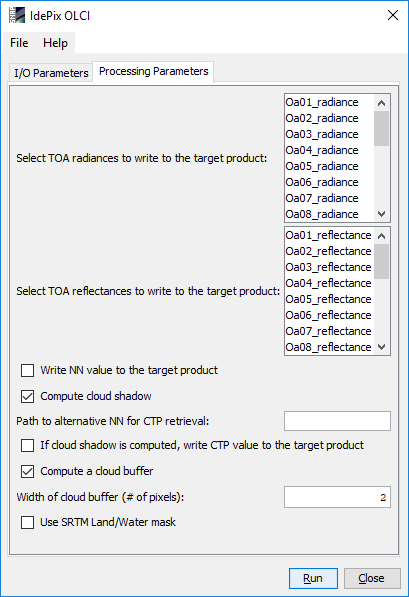
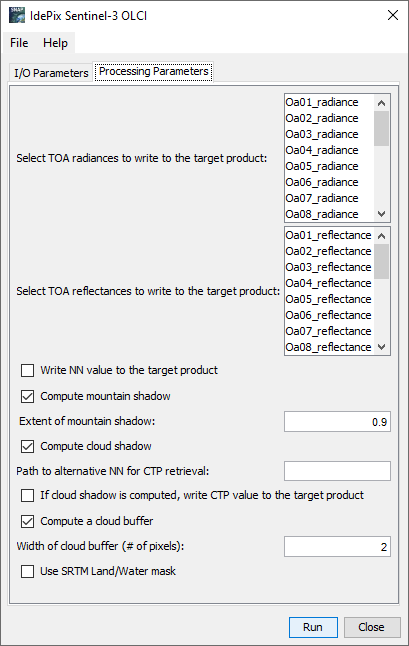
added parameter and help
(cherry picked from commit f2ae6d964960006cc0162cb5ada52e1f9b47e1d7)

Changed region(s): [[0.0, 0.0, 1.0, 1.0], [0.0, 0.0, 0.9682, 0.603], [0.7042, 0.8141, 0.9682, 0.8744]]

diff --git a/idepix-olci/src/main/javahelp/org/esa/snap/idepix/olci/docs/olci/OlciProcessorDescription.html b/idepix-olci/src/main/javahelp/org/esa/snap/idepix/olci/docs/olci/OlciProcessorDescription.html
@@ -108,6 +108,16 @@ For detailed product descriptions and file naming conventions see the Sentinel-3
 </p>
 
 <p class="i1">
+    <b>Compute mountain shadow: </b><br>
+    If set, a mountain shadow is computed and added to the pixel classification. The default value is 'true'.
+</p>
+<p class="i1">
+    <b>Extent of mountain shadow: </b><br>
+    A value between zero and 1 defining how extensive the cloud shadow is flagged. A higher value means more shadow is flagged.
+    The best value is dependent on the current scene. As default <b>0.9</b> is set.
+</p>
+
+<p class="i1">
     <b>Compute cloud shadow: </b><br>
     If set, a cloud shadow is computed and added to the pixel classification. The default value is 'true'.
 </p>

diff --git a/idepix-olci/src/main/java/org/esa/snap/idepix/olci/IdepixOlciPostProcessOp.java b/idepix-olci/src/main/java/org/esa/snap/idepix/olci/IdepixOlciPostProcessOp.java
@@ -17,6 +17,8 @@ import org.esa.snap.idepix.core.util.IdepixIO;
 import org.esa.snap.idepix.core.util.IdepixUtils;
 
 import java.awt.*;
+import java.util.HashMap;
+import java.util.Map;
 
 //import org.esa.s3tbx.idepix.core.IdepixConstants;
 //import org.esa.s3tbx.idepix.core.operators.CloudBuffer;
@@ -49,6 +51,10 @@ public class IdepixOlciPostProcessOp extends Operator {
 
     @Parameter(defaultValue = "true", label = " Compute mountain shadow")
     private boolean computeMountainShadow;
+
+    @Parameter(label = " Extent of mountain shadow", defaultValue = "0.9", interval = "[0,1]",
+            description = "Extent of mountain shadow detection")
+    private double mntShadowExtent;
 
     @Parameter(defaultValue = "false",
             label = " Compute cloud shadow",
@@ -108,17 +114,15 @@ public class IdepixOlciPostProcessOp extends Operator {
         }
 
         rectCalculator = new RectangleExtender(new Rectangle(l1bProduct.getSceneRasterWidth(),
-                l1bProduct.getSceneRasterHeight()),
-                cloudBufferWidth, cloudBufferWidth
-        );
+                l1bProduct.getSceneRasterHeight()), cloudBufferWidth, cloudBufferWidth);
 
         if (computeMountainShadow) {
-            ProductUtils.copyBand(latBand.getName(), l1bProduct, olciCloudProduct, true);
-            ProductUtils.copyBand(lonBand.getName(), l1bProduct, olciCloudProduct, true);
-            ProductUtils.copyBand(altBand.getName(), l1bProduct, olciCloudProduct, true);
+            ensureBandsAreCopied(l1bProduct, olciCloudProduct, latBand.getName(), lonBand.getName(), altBand.getName());
+            Map<String, Object> mntShadowParams = new HashMap<>();
+            mntShadowParams.put("mntShadowStrength", mntShadowExtent);
             final Product mountainShadowProduct = GPF.createProduct(
                     OperatorSpi.getOperatorAlias(IdepixOlciMountainShadowOp.class),
-                    GPF.NO_PARAMS, olciCloudProduct);
+                    mntShadowParams, olciCloudProduct);
             mountainShadowFlagBand = mountainShadowProduct.getBand(
                     IdepixOlciMountainShadowOp.MOUNTAIN_SHADOW_FLAG_BAND_NAME);
         }
@@ -143,6 +147,14 @@ public class IdepixOlciPostProcessOp extends Operator {
 
         ProductUtils.copyBand(IdepixConstants.CLASSIF_BAND_NAME, olciCloudProduct, postProcessedCloudProduct, false);
         setTargetProduct(postProcessedCloudProduct);
+    }
+
+    private void ensureBandsAreCopied(Product source, Product target, String... bandNames) {
+        for (String bandName : bandNames) {
+            if (!target.containsBand(bandName)) {
+                ProductUtils.copyBand(bandName, source, target, true);
+            }
+        }
     }
 
     @Override

diff --git a/idepix-olci/src/main/java/org/esa/snap/idepix/olci/IdepixOlciMountainShadowOp.java b/idepix-olci/src/main/java/org/esa/snap/idepix/olci/IdepixOlciMountainShadowOp.java
@@ -8,6 +8,7 @@ import org.esa.snap.core.gpf.GPF;
 import org.esa.snap.core.gpf.OperatorException;
 import org.esa.snap.core.gpf.OperatorSpi;
 import org.esa.snap.core.gpf.annotations.OperatorMetadata;
+import org.esa.snap.core.gpf.annotations.Parameter;
 import org.esa.snap.core.gpf.annotations.SourceProduct;
 import org.esa.snap.core.gpf.pointop.*;
 import org.esa.snap.core.util.math.MathUtils;
@@ -32,6 +33,10 @@ public class IdepixOlciMountainShadowOp extends PixelOperator {
     @SourceProduct
     private Product sourceProduct;
 
+    @Parameter(label = " Extent of mountain shadow", defaultValue = "0.9", interval = "[0,1]",
+            description = "Extent of mountain shadow detection")
+    private double mntShadowExtent;
+
     private final static int SZA_INDEX = 0;
     private final static int SAA_INDEX = 1;
     private final static int OZA_INDEX = 2;
@@ -43,8 +48,6 @@ public class IdepixOlciMountainShadowOp extends PixelOperator {
     private final static int ELEVATION_INDEX = 8;
 
     private final static int MOUNTAIN_SHADOW_FLAG_BAND_INDEX = 0;
-
-    private final static double SHADOW_THRESHOLD = -0.1;
 
     public final static String MOUNTAIN_SHADOW_FLAG_BAND_NAME = "mountainShadowFlag";
 
@@ -105,14 +108,14 @@ public class IdepixOlciMountainShadowOp extends PixelOperator {
             final double saaApparent = IdepixOlciUtils.computeApparentSaa(sza, saa, oza, oaa, geoPos.getLat());
 
             targetSamples[MOUNTAIN_SHADOW_FLAG_BAND_INDEX].set(isMountainShadow(sza, (float) saaApparent,
-                    slope, aspect, orientation));
+                    slope, aspect, orientation, mntShadowExtent));
         }
     }
 
     /* package local for testing */
-    static boolean isMountainShadow(float sza, float saa, float slope, float aspect, float orientation) {
+    static boolean isMountainShadow(float sza, float saa, float slope, float aspect, float orientation, double mntShadowExtent) {
         final double cosBeta = computeCosBeta(sza, saa, slope, aspect, orientation);
-        return cosBeta < SHADOW_THRESHOLD;
+        return cosBeta < (-1 * (1 - mntShadowExtent));
     }
 
     /* package local for testing */

diff --git a/idepix-olci/src/test/java/org/esa/snap/idepix/olci/IdepixOlciMountainShadowOpTest.java b/idepix-olci/src/test/java/org/esa/snap/idepix/olci/IdepixOlciMountainShadowOpTest.java
@@ -1,6 +1,5 @@
 package org.esa.snap.idepix.olci;
 
-import org.esa.snap.idepix.olci.IdepixOlciMountainShadowOp;
 import org.junit.Test;
 
 import static org.junit.Assert.*;
@@ -24,27 +23,27 @@ public class IdepixOlciMountainShadowOpTest {
 
         // sun in zenith: certainly no shadow...
         float sza = 0.0f;
-        assertFalse(IdepixOlciMountainShadowOp.isMountainShadow(sza, saa, slope, aspect, orientation));
+        assertFalse(IdepixOlciMountainShadowOp.isMountainShadow(sza, saa, slope, aspect, orientation, 0.9));
 
         // low sun angle: no shadow...
         sza = 30.0f;
-        assertFalse(IdepixOlciMountainShadowOp.isMountainShadow(sza, saa, slope, aspect, orientation));
+        assertFalse(IdepixOlciMountainShadowOp.isMountainShadow(sza, saa, slope, aspect, orientation, 0.9));
 
         // the change at sza = 45deg...
         sza = 44.9f;
-        assertFalse(IdepixOlciMountainShadowOp.isMountainShadow(sza, saa, slope, aspect, orientation));
+        assertFalse(IdepixOlciMountainShadowOp.isMountainShadow(sza, saa, slope, aspect, orientation, 0.9));
         sza = 45.0f;
-        assertTrue(IdepixOlciMountainShadowOp.isMountainShadow(sza, saa, slope, aspect, orientation));
+        assertFalse(IdepixOlciMountainShadowOp.isMountainShadow(sza, saa, slope, aspect, orientation, 0.9));
         // get out of the shadow again with slight change in saa...
         saa = 179.0f;
-        assertFalse(IdepixOlciMountainShadowOp.isMountainShadow(sza, saa, slope, aspect, orientation));
+        assertFalse(IdepixOlciMountainShadowOp.isMountainShadow(sza, saa, slope, aspect, orientation, 0.9));
         saa = 181.0f;
-        assertFalse(IdepixOlciMountainShadowOp.isMountainShadow(sza, saa, slope, aspect, orientation));
+        assertFalse(IdepixOlciMountainShadowOp.isMountainShadow(sza, saa, slope, aspect, orientation, 0.9));
 
         // low sun angle: shadow...
         saa = 180.0f;
         sza = 60.0f;
-        assertTrue(IdepixOlciMountainShadowOp.isMountainShadow(sza, saa, slope, aspect, orientation));
+        assertTrue(IdepixOlciMountainShadowOp.isMountainShadow(sza, saa, slope, aspect, orientation, 0.9));
 
     }
 

diff --git a/idepix-olci/src/main/java/org/esa/snap/idepix/olci/IdepixOlciOp.java b/idepix-olci/src/main/java/org/esa/snap/idepix/olci/IdepixOlciOp.java
@@ -82,6 +82,10 @@ public class IdepixOlciOp extends BasisOp {
     @Parameter(defaultValue = "true", label = " Compute mountain shadow")
     private boolean computeMountainShadow;
 
+    @Parameter(label = " Extent of mountain shadow", defaultValue = "0.9", interval = "[0,1]",
+            description = "Extent of mountain shadow detection")
+    private double mntShadowExtent;
+
     @Parameter(defaultValue = "true",
             label = " Compute cloud shadow",
             description = " Compute cloud shadow with the algorithm from 'Fronts' project")
@@ -268,6 +272,7 @@ public class IdepixOlciOp extends BasisOp {
         params.put("cloudBufferWidth", cloudBufferWidth);
         params.put("computeCloudShadow", computeCloudShadow);
         params.put("computeMountainShadow", computeMountainShadow);
+        params.put("mntShadowStrength", mntShadowExtent);
 
         postProcessingProduct = GPF.createProduct(OperatorSpi.getOperatorAlias(IdepixOlciPostProcessOp.class),
                                                   params, input);
